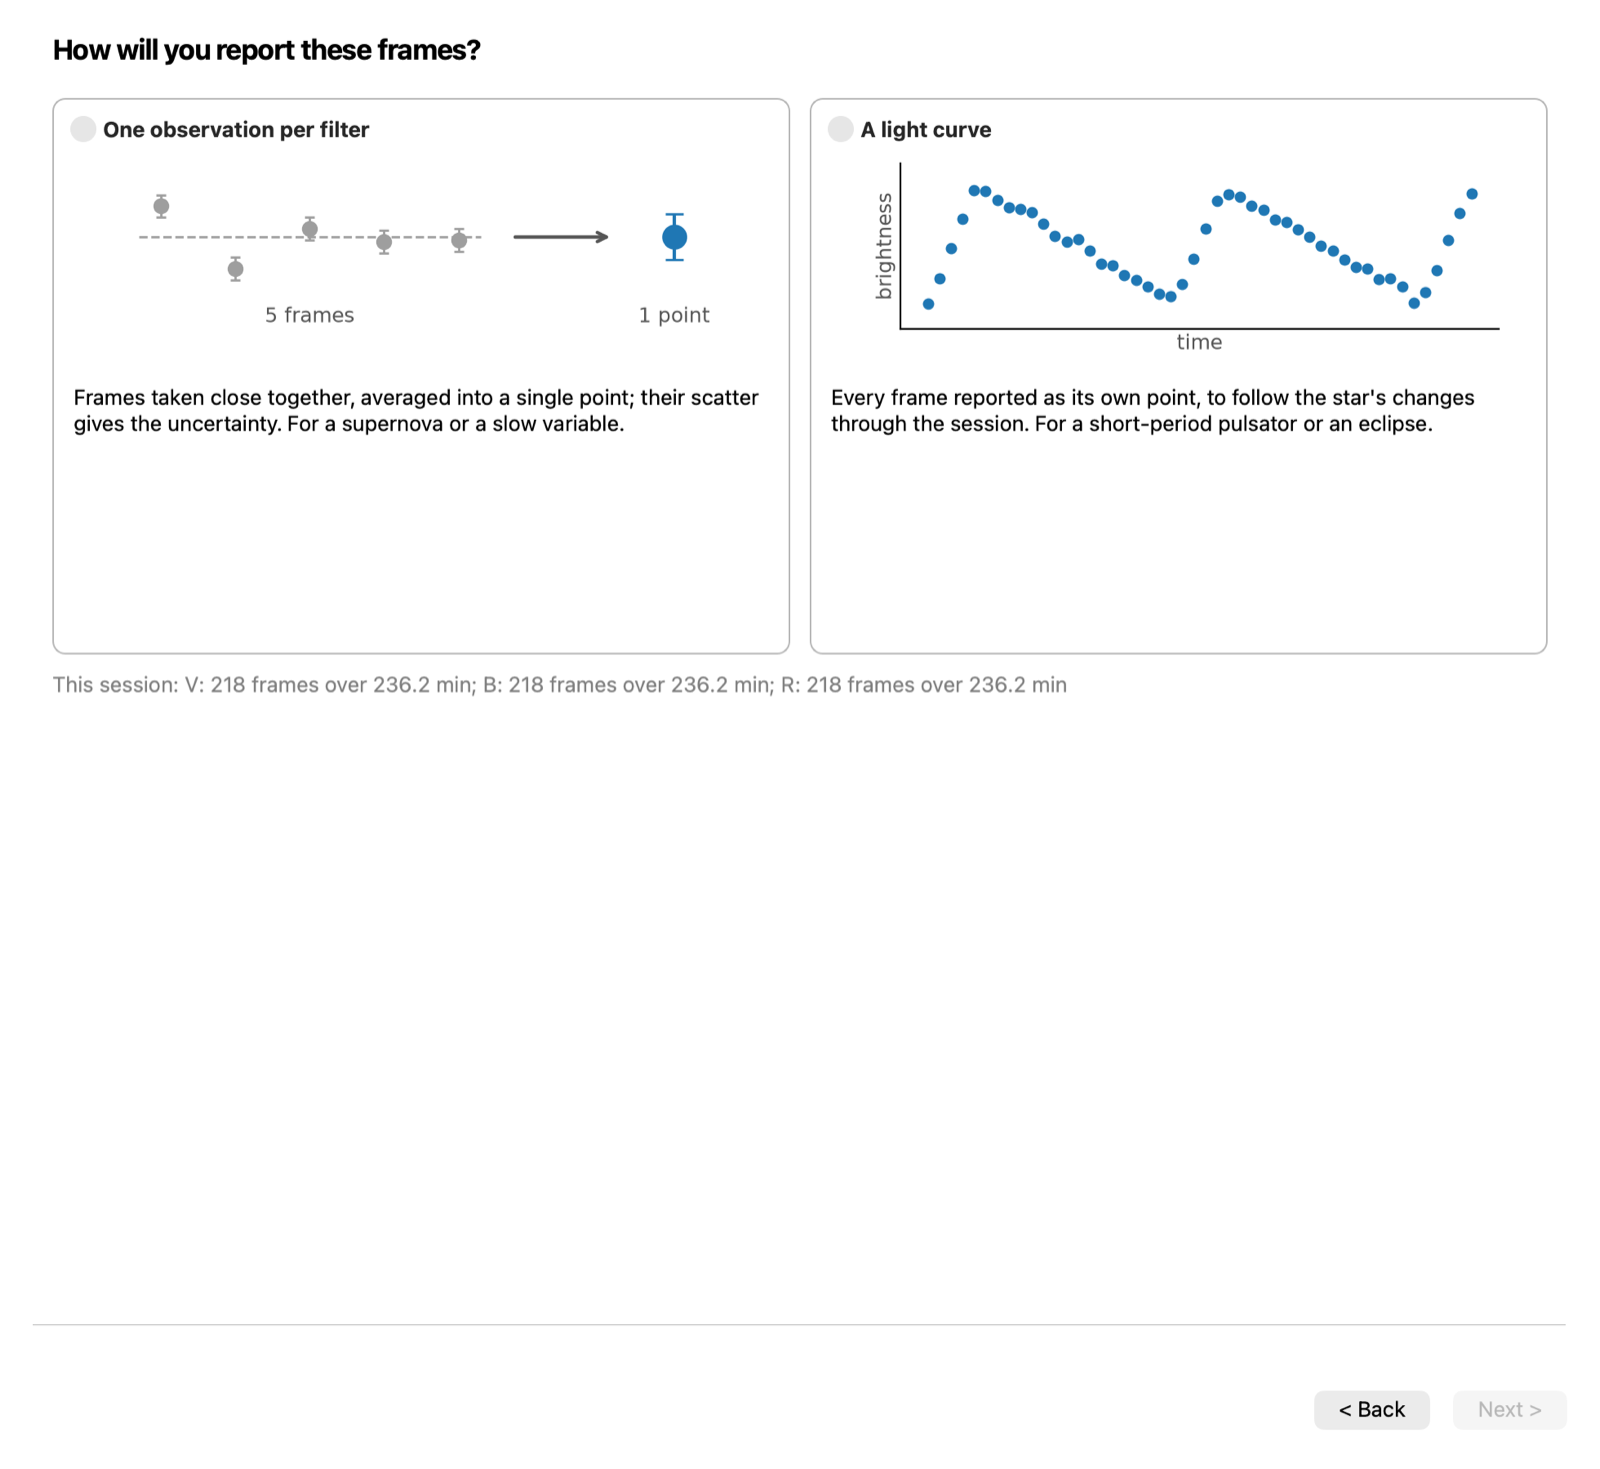
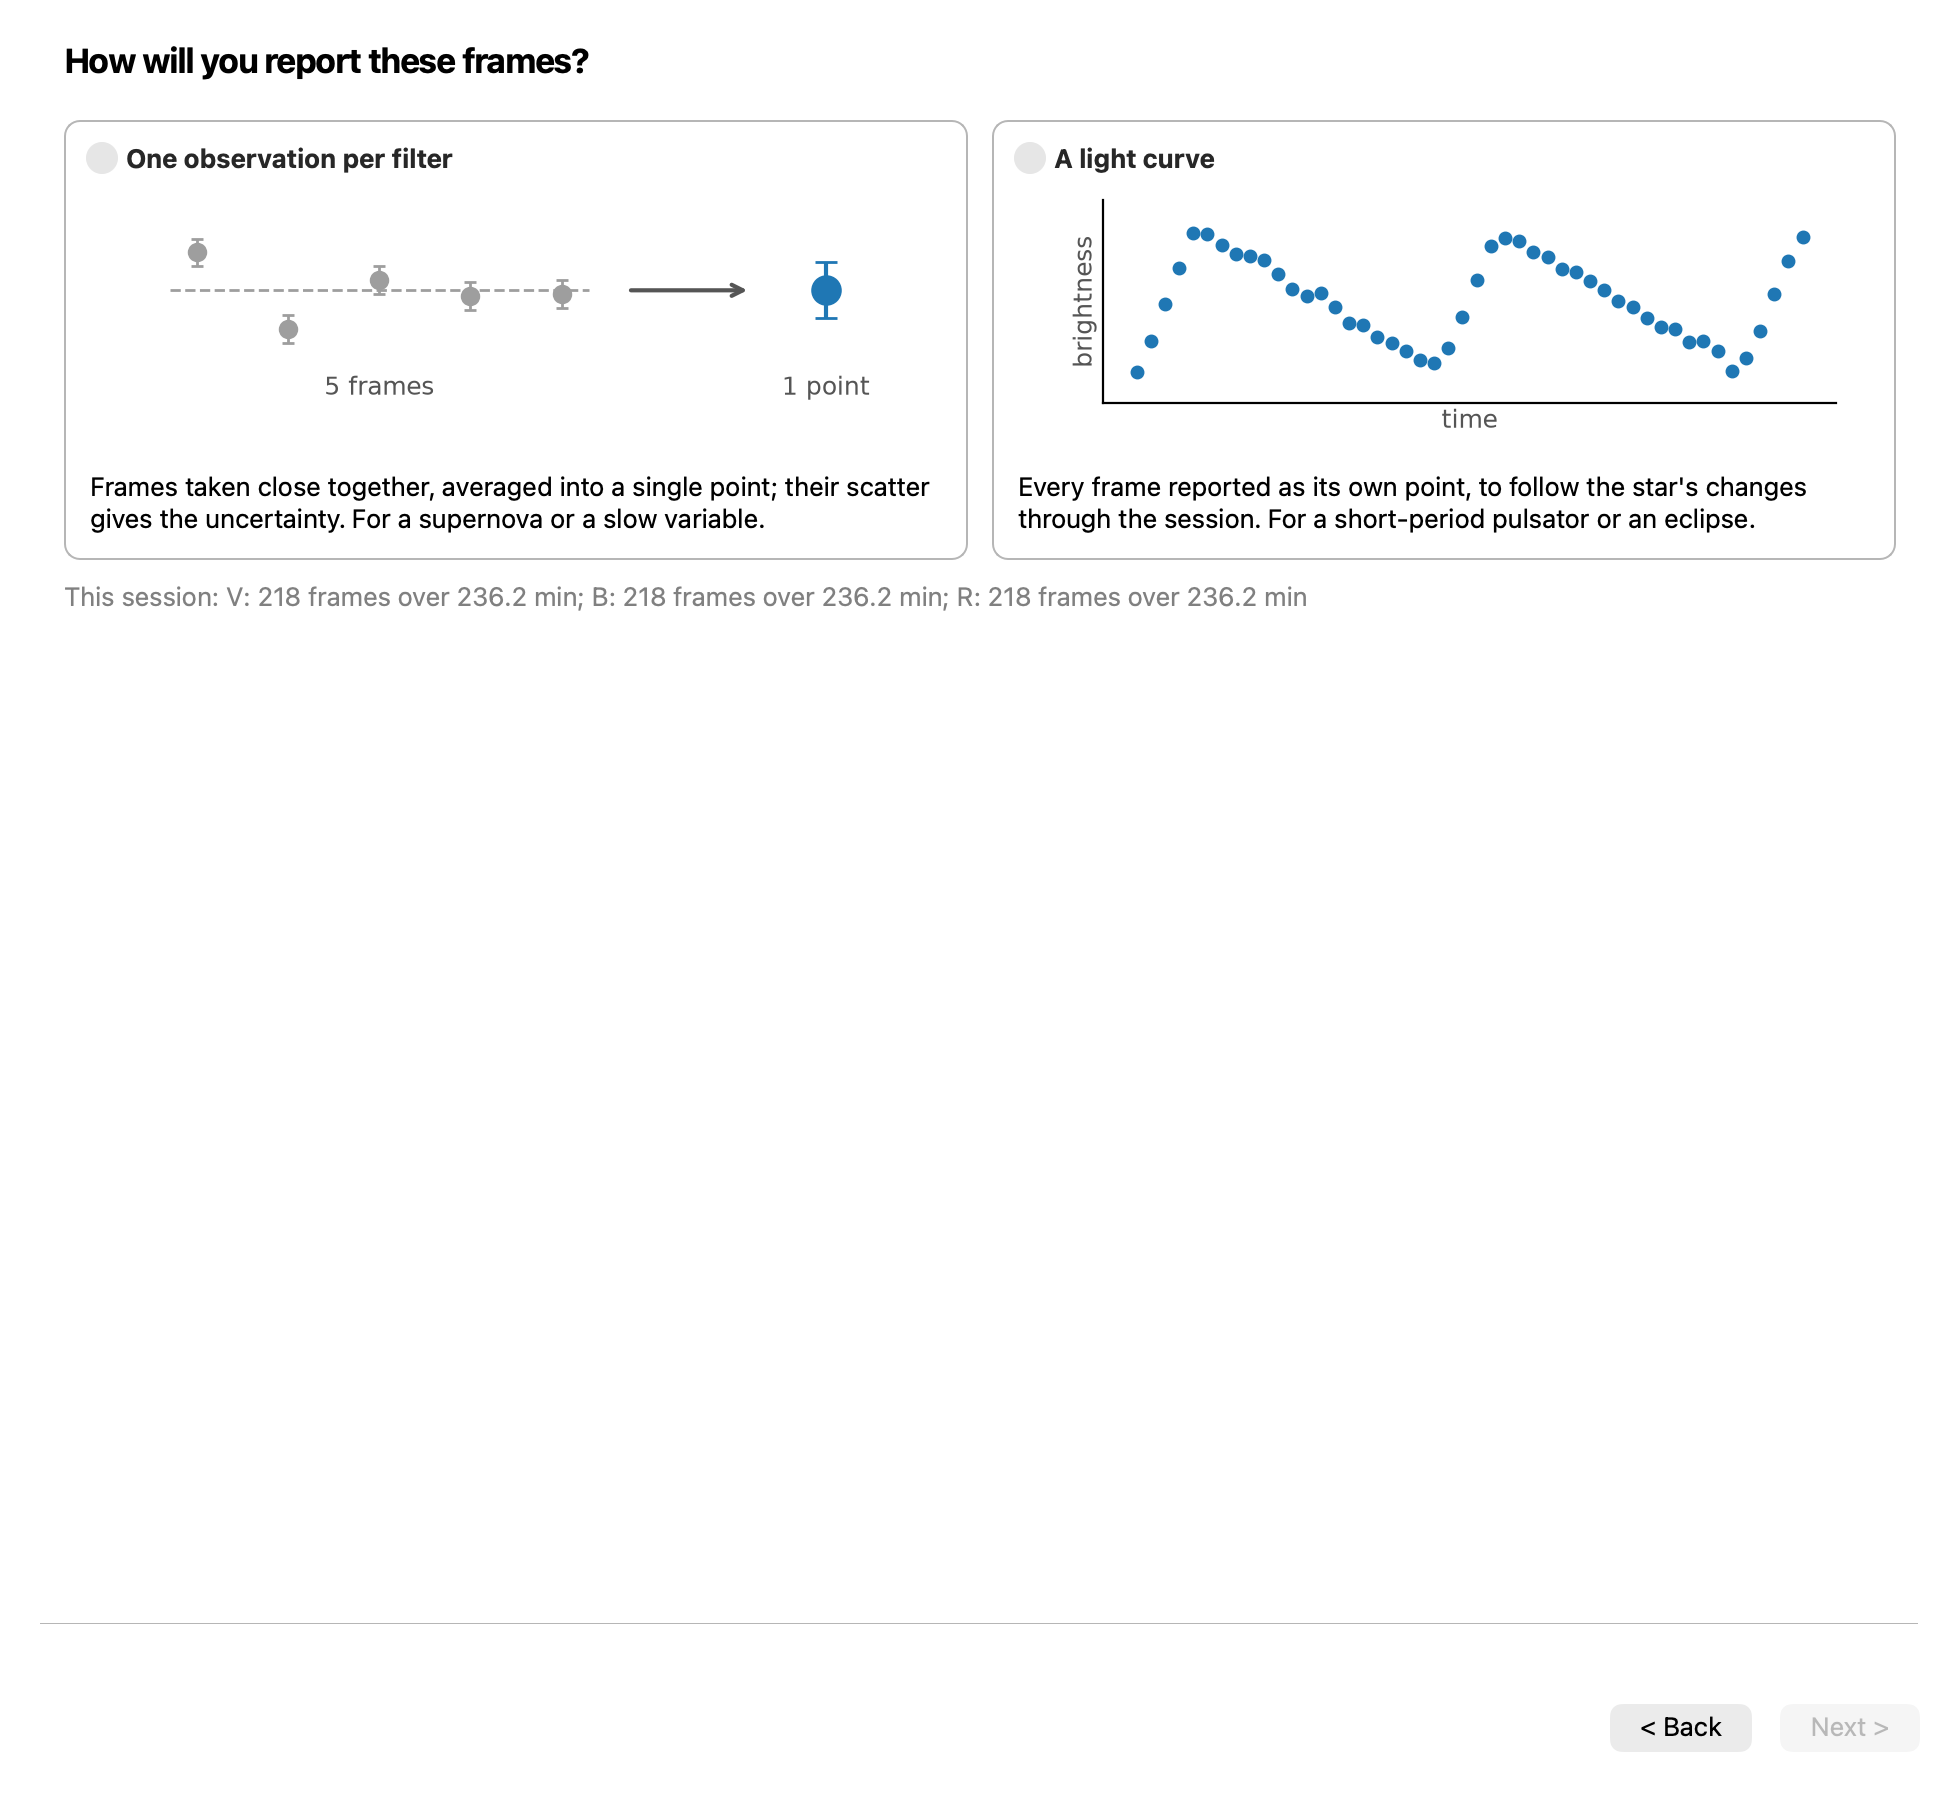
Wizard: drop the scatter table from 'will the target change'; tidy card rows
The decision rests on the star and the frames' time span; the scatter is in the main
table and the preview already warns when the check star is over 2 mag from the target.
Both choice pages share one card row: equal heights, no taller than needed.

Changed region(s): [[0.0312, 0.3063, 0.6875, 0.337], [0.0312, 0.4595, 0.6562, 0.4901]]

diff --git a/src/photometry_workbench/ui/submission_wizard.py b/src/photometry_workbench/ui/submission_wizard.py
@@ -19,6 +19,7 @@ from PySide6.QtWidgets import (
     QPlainTextEdit,
     QRadioButton,
     QScrollArea,
+    QSizePolicy,
     QTableWidget,
     QTableWidgetItem,
     QVBoxLayout,
@@ -31,7 +32,6 @@ from photometry_workbench.models.session import Session
 from photometry_workbench.parsing.aavso_report import AavsoReport
 from photometry_workbench.parsing.aavso_writer import format_report, write_aavso_report
 from photometry_workbench.submission.builder import (
-    CHECK_MAG_LIMIT,
     ErrorMethod,
     Submission,
     SubmissionError,
@@ -105,6 +105,22 @@ class _ChoiceCard(QFrame):
     def _restyle(self, *_):
         border = "2px solid palette(highlight)" if self.radio.isChecked() else "1px solid palette(mid)"
         self.setStyleSheet(f"QFrame#card {{ border: {border}; border-radius: 8px; }}")
+
+
+def _card_row(cards: list["_ChoiceCard"], page: QWizardPage) -> tuple[QWidget, QButtonGroup]:
+    """Cards side by side, equal in height and no taller than the tallest needs, as one
+    choice (button ids in order)."""
+    row = QWidget()
+    row.setSizePolicy(QSizePolicy.Preferred, QSizePolicy.Maximum)
+    layout = QHBoxLayout(row)
+    layout.setContentsMargins(0, 0, 0, 0)
+    layout.setSpacing(12)
+    group = QButtonGroup(page)
+    for i, card in enumerate(cards):
+        group.addButton(card.radio, i)
+        layout.addWidget(card, 1)
+    group.idToggled.connect(lambda *_: page.completeChanged.emit())
+    return row, group
 
 
 def _read_only_table(columns: list[str]) -> QTableWidget:
@@ -186,8 +202,6 @@ class _CombinePage(QWizardPage):
         self._wizard = wizard
         self.setTitle("How will you report these frames?")
         layout = QVBoxLayout(self)
-        cards = QHBoxLayout()
-        cards.setSpacing(12)
         combine = _ChoiceCard(
             "One observation per filter",
             combine_diagram(),
@@ -200,12 +214,8 @@ class _CombinePage(QWizardPage):
             "Every frame reported as its own point, to follow the star's changes through the "
             "session. For a short-period pulsator or an eclipse.",
         )
-        self.choice = QButtonGroup(self)
-        for i, card in enumerate((combine, light_curve)):
-            self.choice.addButton(card.radio, i)
-            cards.addWidget(card, 1)
-        self.choice.idToggled.connect(lambda *_: self.completeChanged.emit())
-        layout.addLayout(cards)
+        row, self.choice = _card_row([combine, light_curve], self)
+        layout.addWidget(row)
         self.summary = _wrapped("", gray=True)
         layout.addWidget(self.summary)
         layout.addStretch()
@@ -231,8 +241,6 @@ class _VariesPage(QWizardPage):
         self._wizard = wizard
         self.setTitle("Will the target change during these frames?")
         layout = QVBoxLayout(self)
-        cards = QHBoxLayout()
-        cards.setSpacing(12)
         steady = _ChoiceCard(
             "Steady during these frames",
             steady_diagram(),
@@ -246,51 +254,20 @@ class _VariesPage(QWizardPage):
             "include that change. The check star's scatter is the uncertainty instead. For a fast "
             "pulsator or a flaring star.",
         )
-        self.choice = QButtonGroup(self)
-        for i, card in enumerate((steady, varies)):
-            self.choice.addButton(card.radio, i)
-            cards.addWidget(card, 1)
-        self.choice.idToggled.connect(lambda *_: self.completeChanged.emit())
-        layout.addLayout(cards)
+        row, self.choice = _card_row([steady, varies], self)
+        layout.addWidget(row)
         self.decide = _wrapped("")
         layout.addWidget(self.decide)
-        layout.addWidget(_wrapped(
-            "For reference, the target's and check star's scatter. A fainter or transformed target "
-            "often scatters a bit more than the check star, even when steady. The check star works "
-            f"best within {CHECK_MAG_LIMIT:g} mag of the target.", gray=True,
-        ))
-        self.table = _read_only_table(
-            ["Filter", "Frames", "Target scatter (Std)", "Check star scatter (Std)", "Target vs check star"]
-        )
-        layout.addWidget(self.table)
         layout.addStretch()
 
     def initializePage(self):
-        report = self._wizard.source_report()
-        df = report.df
+        df = self._wizard.source_report().df
         minutes = (df["DATE"].max() - df["DATE"].min()) * 1440
         self.decide.setText(
             "Decide from what you know about the star: do you expect it to change over the "
             f"{minutes:.1f} minutes these frames span? A supernova or a slow variable doesn't; a "
             "fast pulsator or a flaring star can."
         )
-        self.table.setRowCount(len(report.filters))
-        for r, filt in enumerate(report.filters):
-            rows = df.loc[df["FILT"] == filt]
-            separation = rows["MAG"].mean() - rows["KEFF"].mean()
-            _set_cell(self.table, r, 0, filt)
-            _set_cell(self.table, r, 1, str(len(rows)))
-            _set_cell(self.table, r, 2, f"{rows['MAG'].std(ddof=1):.3f}")
-            _set_cell(self.table, r, 3, f"{rows['KEFF'].std(ddof=1):.3f}")
-            side = "fainter" if separation > 0 else "brighter"
-            item = _set_cell(self.table, r, 4, f"{abs(separation):.2f} mag {side}")
-            if abs(separation) > CHECK_MAG_LIMIT:
-                item.setForeground(coloring.FLAG)
-                item.setToolTip(
-                    f"More than {CHECK_MAG_LIMIT:g} mag apart, so the check star's scatter is a poor "
-                    "stand-in for the target's."
-                )
-        _fit_height(self.table)
 
     def isComplete(self):
         return self.choice.checkedId() >= 0

diff --git a/docs/user-guide.md b/docs/user-guide.md
@@ -167,8 +167,8 @@ curve.
 When combining, the next question is **Will the target change during these
 frames?** If it holds steady, its own scatter is the uncertainty; if it may change, the
 check star's scatter is used instead. Decide from what you know about the star: do you
-expect it to change over the minutes the frames span (shown on the page)? The target's
-and check star's scatter are shown for reference.
+expect it to change over the minutes the frames span (shown on the page)? If you pick
+the check star, the preview warns when it's more than 2 mag from the target.
 
 For a light curve with an ensemble, the uncertainty combines the spread across the
 comparison stars with the SNR error:
